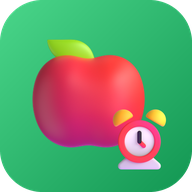
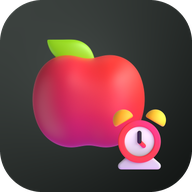
App-Symbol mit dunklem Hintergrund statt Grün
Anthrazit mit leichtem Lichtschein hinter Apfel und Wecker, undurchsichtig
(iOS macht transparente Stellen von Startbildschirm-Symbolen schwarz).
Symbol-Links mit ?v=3, damit Handys das neue Bild laden; Version 3.

diff --git a/index.html b/index.html
@@ -16,9 +16,9 @@
   <meta name="apple-mobile-web-app-status-bar-style" content="default">
   <meta name="format-detection" content="telephone=no">
   <link rel="manifest" href="manifest.webmanifest">
-  <link rel="icon" type="image/png" href="icons/favicon.png">
-  <link rel="apple-touch-icon" href="icons/apple-touch-icon.png">
-  <link rel="stylesheet" href="styles.css?v=2">
+  <link rel="icon" type="image/png" href="icons/favicon.png?v=3">
+  <link rel="apple-touch-icon" href="icons/apple-touch-icon.png?v=3">
+  <link rel="stylesheet" href="styles.css?v=3">
 </head>
 <body>
   <div class="app">
@@ -189,13 +189,13 @@
           </ul>
         </section>
 
-        <p class="credits">Lebensmittel-Bilder: „Fluent Emoji“ von Microsoft (MIT-Lizenz), Aufschnitt selbst gezeichnet<br>Rezepte: eigene Sammlung, mehr Ideen über chefkoch.de<br>Version 2</p>
+        <p class="credits">Lebensmittel-Bilder: „Fluent Emoji“ von Microsoft (MIT-Lizenz), Aufschnitt selbst gezeichnet<br>Rezepte: eigene Sammlung, mehr Ideen über chefkoch.de<br>Version 3</p>
       </div>
     </div>
   </div>
 
-  <script src="foods.js?v=2"></script>
-  <script src="recipes.js?v=2"></script>
-  <script src="app.js?v=2"></script>
+  <script src="foods.js?v=3"></script>
+  <script src="recipes.js?v=3"></script>
+  <script src="app.js?v=3"></script>
 </body>
 </html>

diff --git a/sw.js b/sw.js
@@ -1,8 +1,8 @@
 /* Haltbar – Service Worker: speichert die App auf dem Handy, damit sie auch offline startet.
  * Bei jeder Änderung an App-Dateien: VERSION hier und ?v= in index.html erhöhen.
  */
-const VERSION = 'haltbar-v2';
-const ASSET_V = '2';
+const VERSION = 'haltbar-v3';
+const ASSET_V = '3';
 
 importScripts('foods.js?v=' + ASSET_V);
 
@@ -14,10 +14,11 @@ const SHELL = [
   'recipes.js?v=' + ASSET_V,
   'app.js?v=' + ASSET_V,
   'manifest.webmanifest',
-  'icons/icon-192.png',
-  'icons/icon-512.png',
-  'icons/apple-touch-icon.png',
-  'icons/favicon.png',
+  'icons/icon-192.png?v=' + ASSET_V,
+  'icons/icon-512.png?v=' + ASSET_V,
+  'icons/maskable-512.png?v=' + ASSET_V,
+  'icons/apple-touch-icon.png?v=' + ASSET_V,
+  'icons/favicon.png?v=' + ASSET_V,
   'img/empty.webp',
   'img/install.webp',
 ];

diff --git a/tools/build_icons.py b/tools/build_icons.py
@@ -76,21 +76,24 @@ def ui_images():
         print(f'  {rel}')
 
 
-def gradient(size):
-    """Frisches Grün, diagonal von hell nach dunkel."""
-    top, bottom = (74, 214, 138), (18, 150, 82)
-    img = Image.new('RGB', (size, size))
-    px = img.load()
-    for y in range(size):
-        for x in range(size):
-            t = (x + y) / (2 * (size - 1))
-            px[x, y] = tuple(round(a + (b - a) * t) for a, b in zip(top, bottom))
-    return img
+def background(size):
+    """Dunkles Anthrazit, diagonal von oben links nach unten rechts dunkler,
+    dazu ein weicher Lichtschein hinter dem Apfel. Undurchsichtig, denn iOS
+    macht transparente Stellen von Startbildschirm-Symbolen einfach schwarz."""
+    import numpy as np
+    top, bottom, glow = (60, 66, 63), (18, 21, 20), (92, 100, 96)
+    yy, xx = np.mgrid[0:size, 0:size].astype(np.float32) / (size - 1)
+    t = ((xx + yy) / 2)[..., None]
+    rgb = np.array(top, np.float32) * (1 - t) + np.array(bottom, np.float32) * t
+    d = np.sqrt((xx - 0.42) ** 2 + (yy - 0.40) ** 2) / 0.75
+    a = (np.clip(1 - d, 0, 1) ** 2 * 0.55)[..., None]
+    rgb = rgb * (1 - a) + np.array(glow, np.float32) * a
+    return Image.fromarray(rgb.astype(np.uint8), 'RGB')
 
 
 def logo(size, content_scale):
-    """Apfel + Wecker auf grünem Grund. content_scale = Anteil der Fläche für das Motiv."""
-    base = gradient(size).convert('RGBA')
+    """Apfel + Wecker auf dunklem Grund. content_scale = Anteil der Fläche für das Motiv."""
+    base = background(size).convert('RGBA')
     box = size * content_scale
     apple = fluent('Red apple').resize((round(box * 0.86),) * 2, Image.LANCZOS)
     clock = fluent('Alarm clock').resize((round(box * 0.46),) * 2, Image.LANCZOS)
